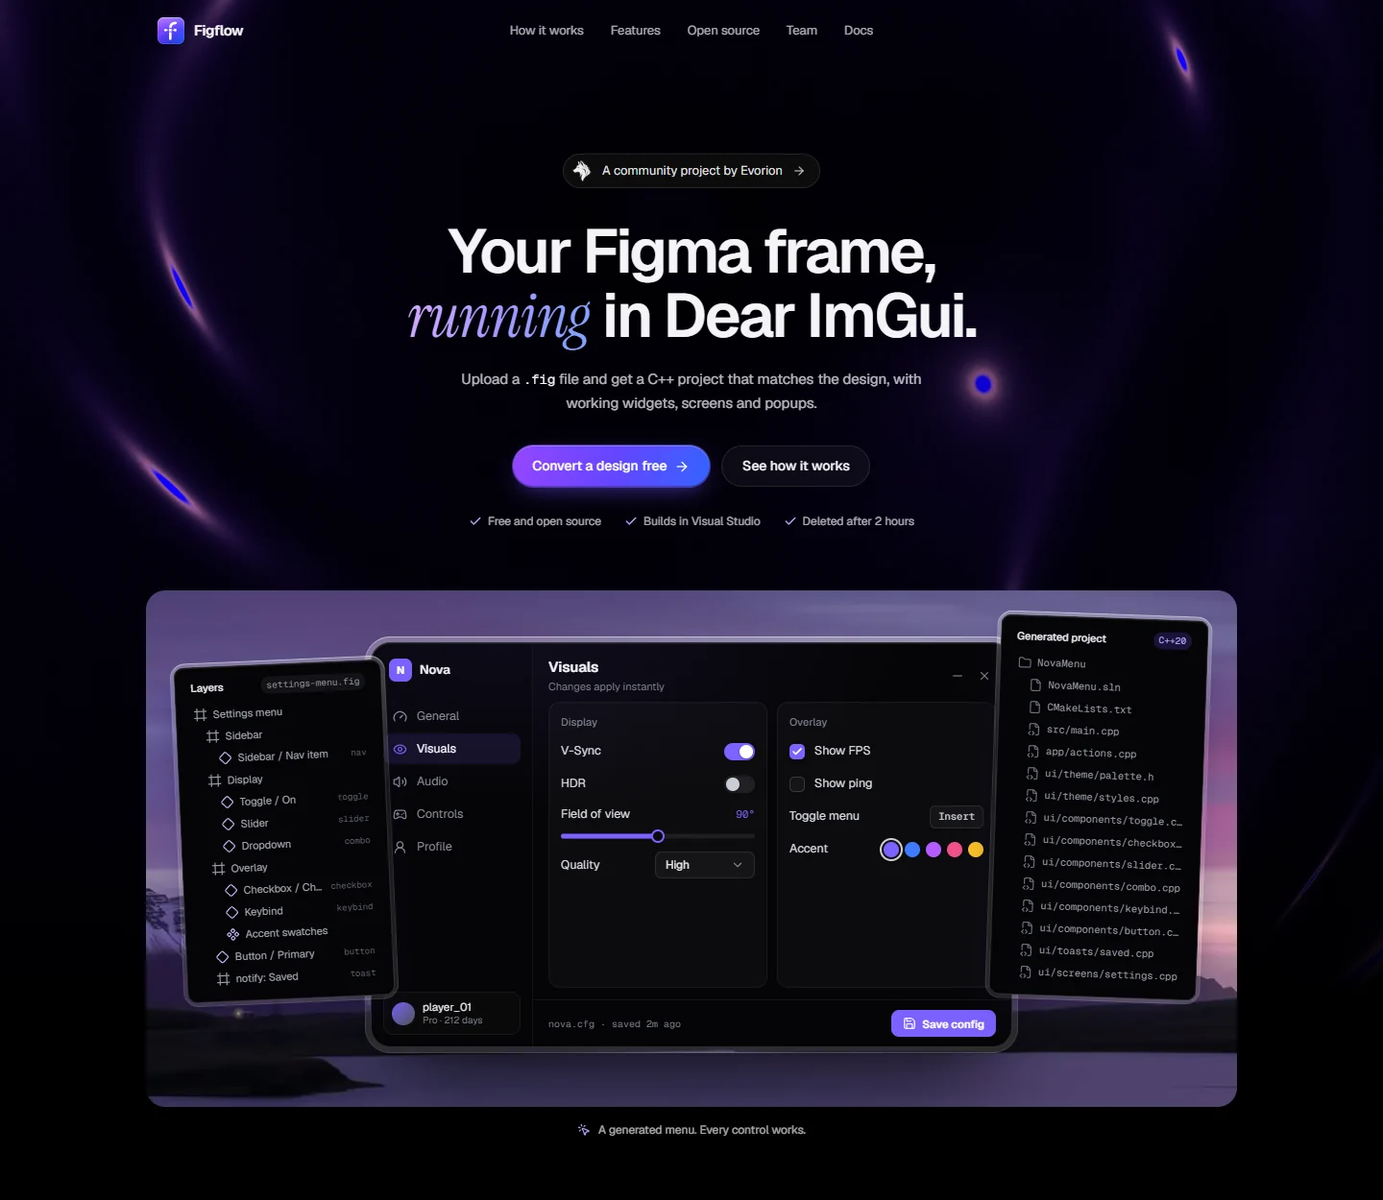
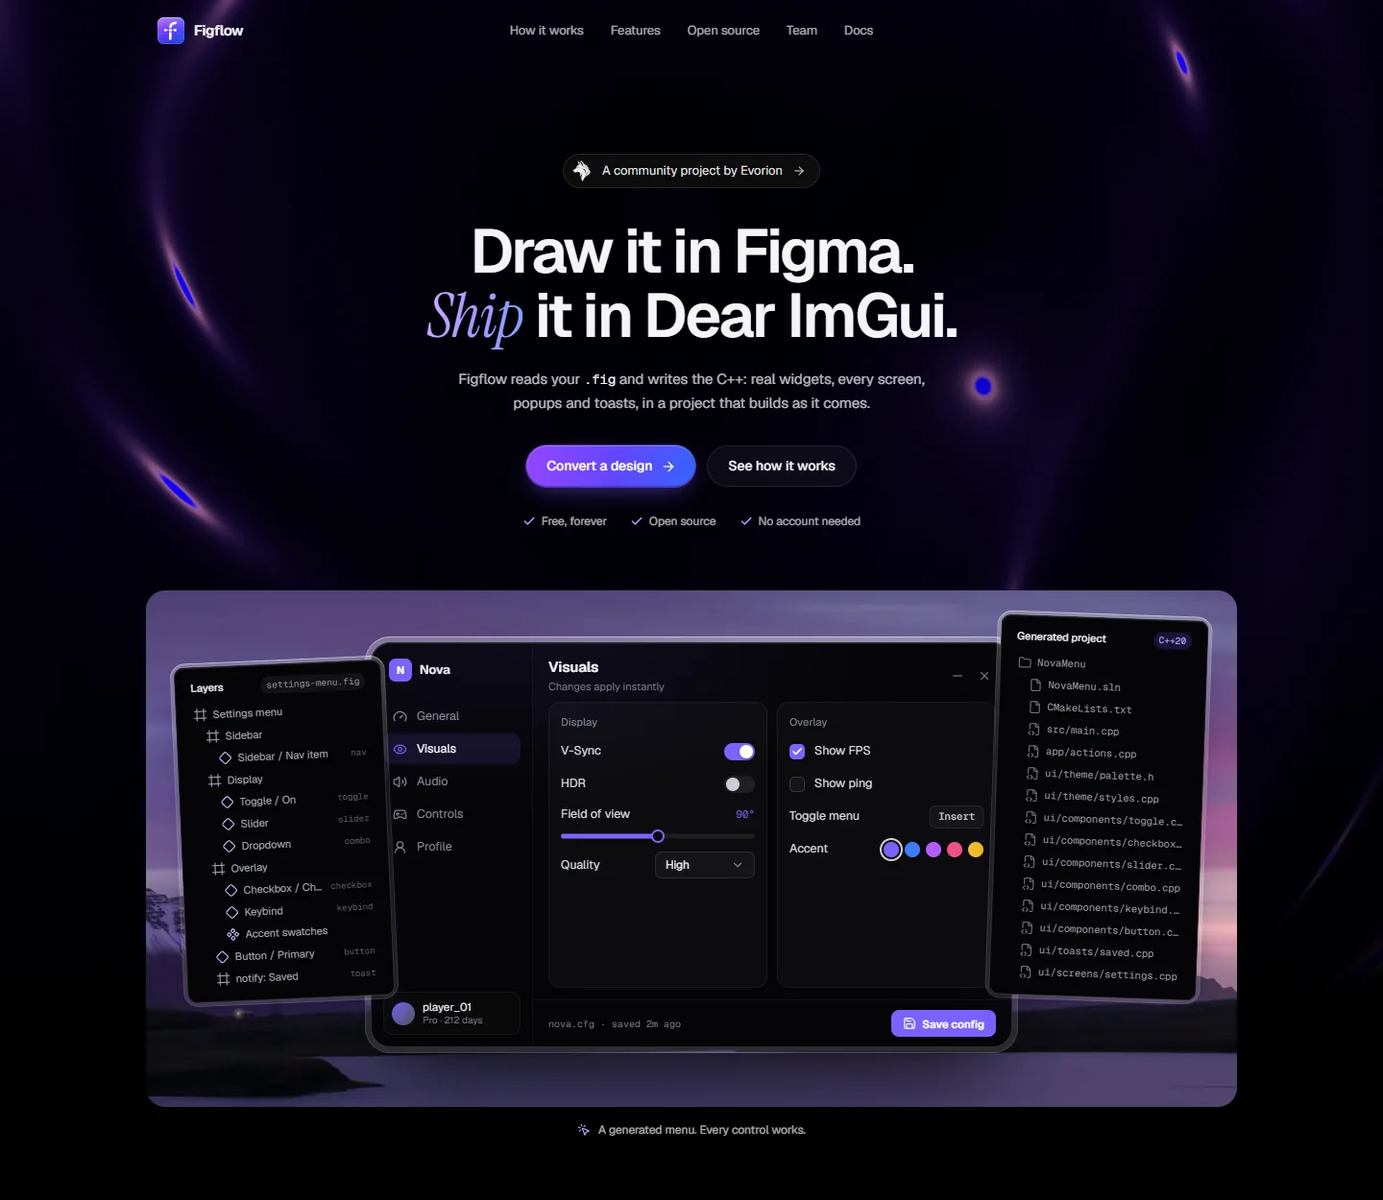
Reword site and docs

diff --git a/src/app/(docs)/docs/page.tsx b/src/app/(docs)/docs/page.tsx
@@ -1,47 +1,48 @@
 import { A, C, DocHeader, H2, P, Pager, Table, Ul } from "@/components/docs/prose";
 
-export const metadata = { title: "Introduction" };
+export const metadata = { title: "Overview" };
 
 export default function DocsIntroduction() {
   return (
     <article>
-      <DocHeader section="Getting started" title="Introduction">
-        Figflow turns a Figma frame into a Dear ImGui project in C++ that looks like the design and already works: its buttons, switches and fields respond, its
-        screens and popups open, and the code reads like code you&apos;d write yourself.
+      <DocHeader section="Start here" title="Overview">
+        Figflow reads a Figma design file and writes a Dear ImGui app in C++ from it: the screens, the widgets on them, the popups and toasts they open, and a
+        theme built from your styles.
       </DocHeader>
 
       <P>
-        Upload the <C>.fig</C> file of a design and download a project you can build in Visual Studio. Figflow reads the file itself, finds the frame your app
-        starts on and everything it leads to, so there is no Figma account to connect, nothing to pick and no layers to rename for most designs.
+        You give it the <C>.fig</C>; it decides which frame the app opens on, follows everything reachable from there, and hands back a project to build. For most
+        designs there is nothing to configure: no Figma account to link, no frame to pick, no layers to rename.
       </P>
 
-      <H2>What you get</H2>
+      <H2>The project you get</H2>
       <Ul>
         <li>
-          A C++20 project for Dear ImGui 1.92 on Windows and DirectX 11, with a Visual Studio solution and a <C>CMakeLists.txt</C>. Every dependency is included.
+          C++20 on Dear ImGui 1.92, for Windows with DirectX 11. It comes with a Visual Studio solution and a <C>CMakeLists.txt</C>, and carries every dependency.
         </li>
-        <li>One file per screen, popup and toast, and one file per kind of widget, written the way Dear ImGui&apos;s own widgets are.</li>
-        <li>A theme named after your Figma variables and styles: colors, text styles, and the looks of every control.</li>
+        <li>A file for each screen, popup and toast, and a file for each kind of widget, built the way Dear ImGui builds its own.</li>
+        <li>A theme generated from your Figma variables and styles: colours, text styles and the look of each control.</li>
         <li>
-          <C>actions.cpp</C>, with a function per control, already filled in where the design says what a control does. That&apos;s where your logic goes.
+          <C>actions.cpp</C>, with one function per control. Where the design already says what a control does, the function does it; the rest is where your logic
+          goes.
         </li>
       </Ul>
 
-      <H2>How it works</H2>
+      <H2>The steps</H2>
       <Table
         head={["Step", "What happens"]}
         rows={[
-          [<A key="1" href="/docs/export">Save a local copy</A>, "In Figma, File → Save local copy… gives you the .fig with every layer, image and glyph."],
-          [<A key="2" href="/docs/convert">Upload it</A>, "Figflow finds the frame your app starts on, and the screens, popups and toasts its buttons lead to, and converts them."],
-          [<A key="3" href="/docs/generated-code">Download and build</A>, "Open the solution, build Release, run. The app looks like the design and already works."],
+          [<A key="1" href="/docs/export">Grab the .fig</A>, "Figma's File → Save local copy… writes one file with every layer, image and glyph."],
+          [<A key="2" href="/docs/convert">Drop it in</A>, "Figflow picks the frame your app opens on, finds the other screens, popups and toasts, and converts them."],
+          [<A key="3" href="/docs/generated-code">Build and run</A>, "Open the solution and build Release. What runs is your design, with its controls wired up."],
         ]}
       />
 
-      <H2>Where your files go</H2>
+      <H2>Your files</H2>
       <P>
-        Your <C>.fig</C> is uploaded to Figflow and converted on its servers. Uploads belong to the browser that made them (a private cookie, no account), and
-        they&apos;re deleted, with every project made from them, two hours after the upload. You can delete one sooner from the converter. Nothing is used for
-        training.
+        Conversion happens on the server that hosts Figflow. An upload is tied to the browser that sent it through a private cookie (there are no accounts), and it
+        is removed two hours later together with every project made from it. You can remove it sooner from the converter, and nothing is used for training. Running
+        Figflow yourself keeps everything on your own machine.
       </P>
 
       <Pager href="/docs" />

diff --git a/src/lib/site.ts b/src/lib/site.ts
@@ -3,11 +3,11 @@
 export const site = {
   name: "Figflow",
   tagline: "Figma to Dear ImGui",
-  description: "Your Figma frame, as a working Dear ImGui app.",
+  description: "Figma designs in, readable Dear ImGui C++ out.",
   retentionHours: 2,
   maxUploadMb: 512,
   /** Figflow is open source: the repository. */
-  sourceUrl: "https://github.com/getevorion/figflow",
+  sourceUrl: "https://github.com/getevorion/FigFlow",
 } as const;
 
 /** The project's owner and maintainer. */
@@ -32,39 +32,39 @@ export const nav = [
 
 export const faq: Array<{ q: string; a: string }> = [
   {
-    q: "Is Figflow free?",
-    a: "Yes. Figflow is an open-source community project: no plans, no license keys, and the code it generates is yours.",
+    q: "How much does Figflow cost?",
+    a: "Nothing. It's free and open source: no plans, no license keys, and the code you generate is yours to change, ship and sell.",
   },
   {
-    q: "What file do I upload?",
-    a: "The .fig from File → Save local copy in Figma. It holds every layer, font and image, so no Figma login or API token is needed.",
+    q: "Can I run Figflow myself?",
+    a: "Yes. It's a Next.js app with a small C++ runtime. Clone the repository, run npm install and npm run dev, and convert on your own machine.",
   },
   {
-    q: "What do I get back?",
-    a: "A C++20 project for Dear ImGui 1.92 with a Visual Studio solution and a CMakeLists.txt, for Win32 and DirectX 11, with every dependency included.",
+    q: "Where does the .fig come from?",
+    a: "Figma's File menu: Save local copy… writes the whole design to one file, layers, fonts and images included. No Figma login or API token is involved.",
   },
   {
-    q: "Is the code really readable?",
-    a: "Yes. One file per widget kind, your components as C++ components, one file per screen, and a theme named after your Figma styles and variables.",
+    q: "Which platform does the project target?",
+    a: "Windows. You get a C++20 project on Dear ImGui 1.92 with Win32 and DirectX 11, a Visual Studio 2022 solution and a CMakeLists.txt. Everything it needs is in the ZIP.",
   },
   {
-    q: "Will it look like my design?",
-    a: "It uses the design's own values: glyph positions, per-corner radii, strokes, gradients, shadows, masks and images, drawn by Dear ImGui itself.",
+    q: "How is the code organised?",
+    a: "Widgets in ui/components, one file per screen, popup and toast, a single State struct for the app's data, and a theme generated from your Figma styles and variables.",
   },
   {
-    q: "Which parts become working controls?",
-    a: "Buttons, sidebar items, toggles, checkboxes, radio buttons, sliders, text fields, dropdowns and keybinds, recognized by how they look. Hover, pressed and disabled states come from your variants.",
+    q: "What turns into a widget?",
+    a: "Buttons, nav items, tab bars, toggles, checkboxes, radios, sliders, text fields, dropdowns and key binds, found by how they look. Their hover, pressed and disabled variants become their states.",
   },
   {
-    q: "Can one project have several screens?",
-    a: "Yes. Prototype links, and buttons labelled Login or Continue, become screens with transitions. Dialogs become popups and notifications become toasts.",
+    q: "Does it handle apps with several screens?",
+    a: "Yes. Every frame the size of your app's window becomes a screen, prototype links become navigation, dialogs become popups and notifications become toasts.",
   },
   {
-    q: "What happens to my files?",
-    a: "They are deleted, with everything made from them, two hours after upload. Nothing is used for training.",
+    q: "How close does the result get?",
+    a: "Text is drawn from the design's own glyphs, and radii, strokes, gradients, shadows and masks keep their exact values. On the designs we test against, 98.9% to 99.9% of pixels match.",
   },
   {
-    q: "Can I change the generated code?",
-    a: "It is plain C++ you own, with no license checks or calls home. Change it, ship it, sell what you build with it.",
+    q: "How long do you keep uploads?",
+    a: "Two hours. Then the upload and everything made from it is deleted. Nothing is used for training.",
   },
 ];

diff --git a/src/components/landing/features.tsx b/src/components/landing/features.tsx
@@ -217,22 +217,22 @@ export function Features() {
           icon={BlocksIcon}
           title={
             <>
-              Design it once. Ship an app that <span className="text-brand-gradient font-serif font-normal italic">works</span>.
+              Everything in the frame <span className="text-brand-gradient font-serif font-normal italic">comes along</span>.
             </>
           }
         >
-          Positions, fonts, icons, effects, components and states come through exactly. Every control becomes a variable in your code.
+          Layout, type, icons, effects, components and states carry over, and every control ends up as state your code can read and write.
         </SectionHeading>
 
         <div className="mt-12 grid gap-4 lg:grid-cols-6">
           <Cell
             className="lg:col-span-4 lg:row-span-2"
             stage="violet"
-            title="Code you'd write yourself."
-            body="One file per widget, written like Dear ImGui's own. Components stay components, frames become screens, and the theme is named after your styles."
+            title="Organised like a hand-built project."
+            body="Widgets live in ui/components, each screen is a function, and the theme is generated from your styles and variables. Figma components stay components."
             footer={
               <div className="mt-3 flex flex-wrap gap-2">
-                {["No draw-call dump", "Components stay components", "Variables become constants"].map((label) => (
+                {["No wall of draw calls", "Components kept intact", "Named colour constants"].map((label) => (
                   <span key={label} className="rounded-full border border-[#262626] bg-[#121212] px-2.5 py-1 text-[11px] text-foreground/75">
                     {label}
                   </span>
@@ -242,10 +242,10 @@ export function Features() {
           >
             <CodeVisual />
           </Cell>
-          <Cell className="lg:col-span-2" title="Pixel for pixel." body="Text sits on Figma's own baselines. Every corner keeps its radius." delay={0.05}>
+          <Cell className="lg:col-span-2" title="Down to the glyph." body="Text is drawn from the design's own glyph outlines on Figma's baselines, and every corner keeps its radius." delay={0.05}>
             <PixelVisual />
           </Cell>
-          <Cell className="lg:col-span-2" title="Every effect." body="Drop and inner shadows, glows, gradients and masks, with the design's own values." delay={0.1}>
+          <Cell className="lg:col-span-2" title="Shadows, glows, masks." body="Drop and inner shadows, glows, gradients, blurs and masks, using the values in your file." delay={0.1}>
             <EffectsVisual />
           </Cell>
           <Cell className="lg:col-span-2" stage="sky" title="States from your variants." body="Default, hover, pressed and disabled variants drive animated states." delay={0.05}>

diff --git a/src/components/landing/how-it-works.tsx b/src/components/landing/how-it-works.tsx
@@ -21,12 +21,12 @@ export function HowItWorks() {
   return (
     <section id="how-it-works" className="relative scroll-mt-10 py-24">
       <div className="mx-auto max-w-6xl px-5">
-        <SectionHeading eyebrow="How it works" icon={WorkflowIcon} title="Three steps. No setup.">
-          No installs, no API tokens, no renaming layers.
+        <SectionHeading eyebrow="How it works" icon={WorkflowIcon} title="From file to build in a minute.">
+          Nothing to install, no API token, no layers to rename.
         </SectionHeading>
 
         <div className="mt-12 grid gap-5 md:grid-cols-3">
-          <StepCard n="01" title="Save a local copy" body="In Figma, choose File → Save local copy. The .fig holds every layer, font and image." delay={0}>
+          <StepCard n="01" title="Grab the .fig" body="Figma's File → Save local copy… gives you one file with every layer, font and image in it." delay={0}>
             <div className="bezel bezel-sm w-[228px]">
               <div className="window p-1.5 text-[12px]">
                 {["New design file", "Open…", "Save local copy…", "Save to version history", "Export…"].map((item) => (
@@ -46,7 +46,7 @@ export function HowItWorks() {
             </div>
           </StepCard>
 
-          <StepCard n="02" title="Upload it, pick a frame" body="Choose where to start. Linked screens, pages and popups are found for you." delay={0.08} sky>
+          <StepCard n="02" title="Drop it in" body="Figflow finds the screen your app opens on, every other screen, and the popups and toasts they use." delay={0.08} sky>
             <div className="bezel bezel-sm w-full max-w-[272px]">
               <div className="window p-3">
                 <div className="flex items-center gap-2 rounded-lg border border-dashed border-white/20 bg-white/[0.04] px-3 py-2">
@@ -72,7 +72,7 @@ export function HowItWorks() {
             </div>
           </StepCard>
 
-          <StepCard n="03" title="Download the project" body="Check the preview and the code, then build it in Visual Studio." delay={0.16}>
+          <StepCard n="03" title="Build and run" body="Look over the preview and the code, then build the ZIP in Visual Studio 2022 or with CMake." delay={0.16}>
             <div className="bezel bezel-sm w-full max-w-[260px]">
               <div className="window p-3">
                 <div className="font-mono text-[11.5px] leading-6 text-[#b4b5c3]">

diff --git a/src/app/(app)/convert/page.tsx b/src/app/(app)/convert/page.tsx
@@ -9,9 +9,9 @@ import { uploadView } from "@/server/views";
 export const metadata = { title: "Convert a Figma file" };
 
 const steps = [
-  { icon: FileCode2Icon, title: "Save a local copy", body: "In Figma, File → Save local copy… gives you the .fig with every layer, font and image." },
-  { icon: WandSparklesIcon, title: "Figflow converts it", body: "It finds the frame your app starts on, and the screens, popups and toasts its buttons lead to." },
-  { icon: FolderDownIcon, title: "Download the project", body: "A Visual Studio and CMake project for Dear ImGui 1.92, ready to build." },
+  { icon: FileCode2Icon, title: "Grab the .fig", body: "Figma's File → Save local copy… gives you one file with every layer, font and image in it." },
+  { icon: WandSparklesIcon, title: "Drop it in", body: "Figflow finds the screen your app opens on, every other screen, and the popups and toasts they use." },
+  { icon: FolderDownIcon, title: "Build and run", body: "The ZIP opens in Visual Studio 2022 or builds with CMake. Dear ImGui 1.92 is included." },
 ];
 
 export default async function ConvertPage() {
@@ -28,10 +28,10 @@ export default async function ConvertPage() {
             <SparklesIcon aria-hidden /> Convert
           </span>
           <h1 className="mt-3.5 text-[2rem] leading-[1.08] font-semibold tracking-[-0.035em] text-balance sm:text-[2.6rem]">
-            From Figma to a <span className="text-brand-gradient font-serif font-normal tracking-[-0.01em] italic">working</span> Dear ImGui app.
+            Turn a <span className="text-brand-gradient font-serif font-normal tracking-[-0.01em] italic">.fig</span> into Dear ImGui.
           </h1>
           <p className="mx-auto mt-4 max-w-md text-[14.5px] leading-relaxed text-pretty text-muted-foreground">
-            Drop in a .fig and download a C++ project that looks like the design and already works. Figflow does the rest.
+            Give Figflow your design file and it writes the C++: widgets, screens, popups and toasts, ready to build.
           </p>
         </div>
 

diff --git a/src/components/landing/hero.tsx b/src/components/landing/hero.tsx
@@ -20,16 +20,16 @@ export function Hero() {
         </Link>
 
         <h1 className="mx-auto max-w-3xl text-[2.25rem] leading-[1.05] font-semibold tracking-[-0.04em] text-balance sm:text-[3rem] md:text-[4rem]">
-          Your Figma frame, <span className="text-brand-gradient font-serif font-normal tracking-[-0.02em] italic">running</span> in Dear ImGui.
+          Draw it in Figma. <span className="text-brand-gradient font-serif font-normal tracking-[-0.02em] italic">Ship</span> it in Dear ImGui.
         </h1>
         <p className="mx-auto mt-5 max-w-lg text-[15px] leading-relaxed text-pretty text-foreground/75">
-          Upload a <span className="font-mono text-[0.92em] text-foreground">.fig</span> file and get a C++ project that matches the design, with working widgets,
-          screens and popups.
+          Figflow reads your <span className="font-mono text-[0.92em] text-foreground">.fig</span> and writes the C++: real widgets, every screen, popups and
+          toasts, in a project that builds as it comes.
         </p>
 
         <div className="mt-8 flex flex-col items-center justify-center gap-3 sm:flex-row">
           <Link href="/convert" className="lf-btn lf-btn-primary lf-btn-lg">
-            Convert a design free
+            Convert a design
             <ArrowRightIcon className="size-4" />
           </Link>
           <Link href="/#how-it-works" className="lf-btn lf-btn-ghost lf-btn-lg">
@@ -37,7 +37,7 @@ export function Hero() {
           </Link>
         </div>
         <ul className="mx-auto mt-7 flex max-w-xl flex-wrap items-center justify-center gap-x-6 gap-y-2 text-xs text-foreground/70">
-          {["Free and open source", "Builds in Visual Studio", "Deleted after 2 hours"].map((t) => (
+          {["Free, forever", "Open source", "No account needed"].map((t) => (
             <li key={t} className="flex items-center gap-1.5">
               <CheckIcon className="size-3.5 text-brand-soft" strokeWidth={2.5} />
               {t}

diff --git a/src/components/landing/final-cta.tsx b/src/components/landing/final-cta.tsx
@@ -8,15 +8,15 @@ export function FinalCta() {
     <section className="relative px-5 py-10">
       <Reveal className="panel rounded-card relative mx-auto max-w-6xl overflow-hidden px-6 py-20 text-center">
         <h2 className="mx-auto max-w-3xl text-[2rem] leading-[1.08] font-semibold tracking-[-0.035em] text-balance sm:text-[2.75rem]">
-          Upload your design. <span className="text-brand-gradient font-serif font-normal italic">Download the app.</span>
+          Turn your next design into <span className="text-brand-gradient font-serif font-normal italic">real ImGui code.</span>
         </h2>
-        <p className="mx-auto mt-4 max-w-lg text-[15px] text-muted-foreground">Free and open source, for everyone.</p>
+        <p className="mx-auto mt-4 max-w-lg text-[15px] text-muted-foreground">Free, open source, and yours to run anywhere.</p>
         <div className="mt-9 flex flex-col items-center justify-center gap-3 sm:flex-row">
           <a href={site.sourceUrl} target="_blank" rel="noreferrer" className="lf-btn lf-btn-primary lf-btn-lg">
             Get the source <ArrowUpRightIcon className="size-4" />
           </a>
           <Link href="/docs" className="lf-btn lf-btn-ghost lf-btn-lg">
-            Read the guide
+            Read the docs
           </Link>
         </div>
       </Reveal>

diff --git a/src/components/site/site-footer.tsx b/src/components/site/site-footer.tsx
@@ -7,19 +7,19 @@ type FooterLink = { href: string; label: string; external?: boolean };
 
 const columns: Array<{ title: string; links: FooterLink[] }> = [
   {
-    title: "Product",
+    title: "Figflow",
     links: [
+      { href: "/convert", label: "Converter" },
       { href: "/#how-it-works", label: "How it works" },
       { href: "/#features", label: "Features" },
       { href: "/#open-source", label: "Open source" },
-      { href: "/convert", label: "Convert a file" },
     ],
   },
   {
-    title: "Guide",
+    title: "Docs",
     links: [
-      { href: "/docs", label: "Getting started" },
-      { href: "/docs/export", label: "Export a .fig file" },
+      { href: "/docs", label: "Overview" },
+      { href: "/docs/export", label: "Getting your .fig" },
       { href: "/docs/generated-code", label: "The generated code" },
       { href: "/docs/troubleshooting", label: "Troubleshooting" },
     ],

diff --git a/src/app/layout.tsx b/src/app/layout.tsx
@@ -20,13 +20,13 @@ export const metadata: Metadata = {
     template: "%s · Figflow",
   },
   description:
-    "Figflow is an open-source community project: upload a Figma file and download a Dear ImGui C++ project that looks like the design, with real widgets in their own files, a theme from your styles, and controls, screens and popups that already work.",
+    "Figflow is a free, open-source Figma to Dear ImGui converter. Give it a .fig and get a C++ project with widgets in their own files, a theme built from your styles, and screens, popups and toasts wired up.",
   applicationName: "Figflow",
   openGraph: {
     type: "website",
     siteName: "Figflow",
     title: "Figflow · Figma to Dear ImGui",
-    description: "Your Figma frame, as a working Dear ImGui app.",
+    description: "Figma designs in, readable Dear ImGui C++ out.",
   },
 };
 

diff --git a/src/components/docs/nav.ts b/src/components/docs/nav.ts
@@ -3,11 +3,11 @@ export type DocPage = { href: string; title: string };
 /** The docs, in reading order. */
 export const docsNav: Array<{ title: string; pages: DocPage[] }> = [
   {
-    title: "Getting started",
+    title: "Start here",
     pages: [
-      { href: "/docs", title: "Introduction" },
-      { href: "/docs/export", title: "Export your .fig file" },
-      { href: "/docs/convert", title: "Convert and download" },
+      { href: "/docs", title: "Overview" },
+      { href: "/docs/export", title: "Getting your .fig" },
+      { href: "/docs/convert", title: "Using the converter" },
     ],
   },
   {

diff --git a/src/components/landing/comparison.tsx b/src/components/landing/comparison.tsx
@@ -29,7 +29,7 @@ export function Comparison() {
   return (
     <section className="relative py-20">
       <div className="mx-auto max-w-6xl px-5">
-        <SectionHeading eyebrow="Why it's different" icon={GitCompareArrowsIcon} title="Not a picture of your UI. Your UI.">
+        <SectionHeading eyebrow="Why it's different" icon={GitCompareArrowsIcon} title="Widgets and screens, not draw calls.">
           Most converters flatten a design into draw calls with magic numbers. You can run that, but you can&apos;t work in it.
         </SectionHeading>
         <div className="mt-12 grid gap-5 md:grid-cols-2">

diff --git a/src/app/(docs)/docs/convert/page.tsx b/src/app/(docs)/docs/convert/page.tsx
@@ -1,11 +1,11 @@
 import { A, C, DocHeader, H2, Note, P, Pager, Steps, Step, Table } from "@/components/docs/prose";
 
-export const metadata = { title: "Convert and download" };
+export const metadata = { title: "Using the converter" };
 
 export default function ConvertDocs() {
   return (
     <article>
-      <DocHeader section="Getting started" title="Convert and download">
+      <DocHeader section="Start here" title="Using the converter">
         From an uploaded file to a project on your disk, in the converter at <A href="/convert">/convert</A>.
       </DocHeader>
 
